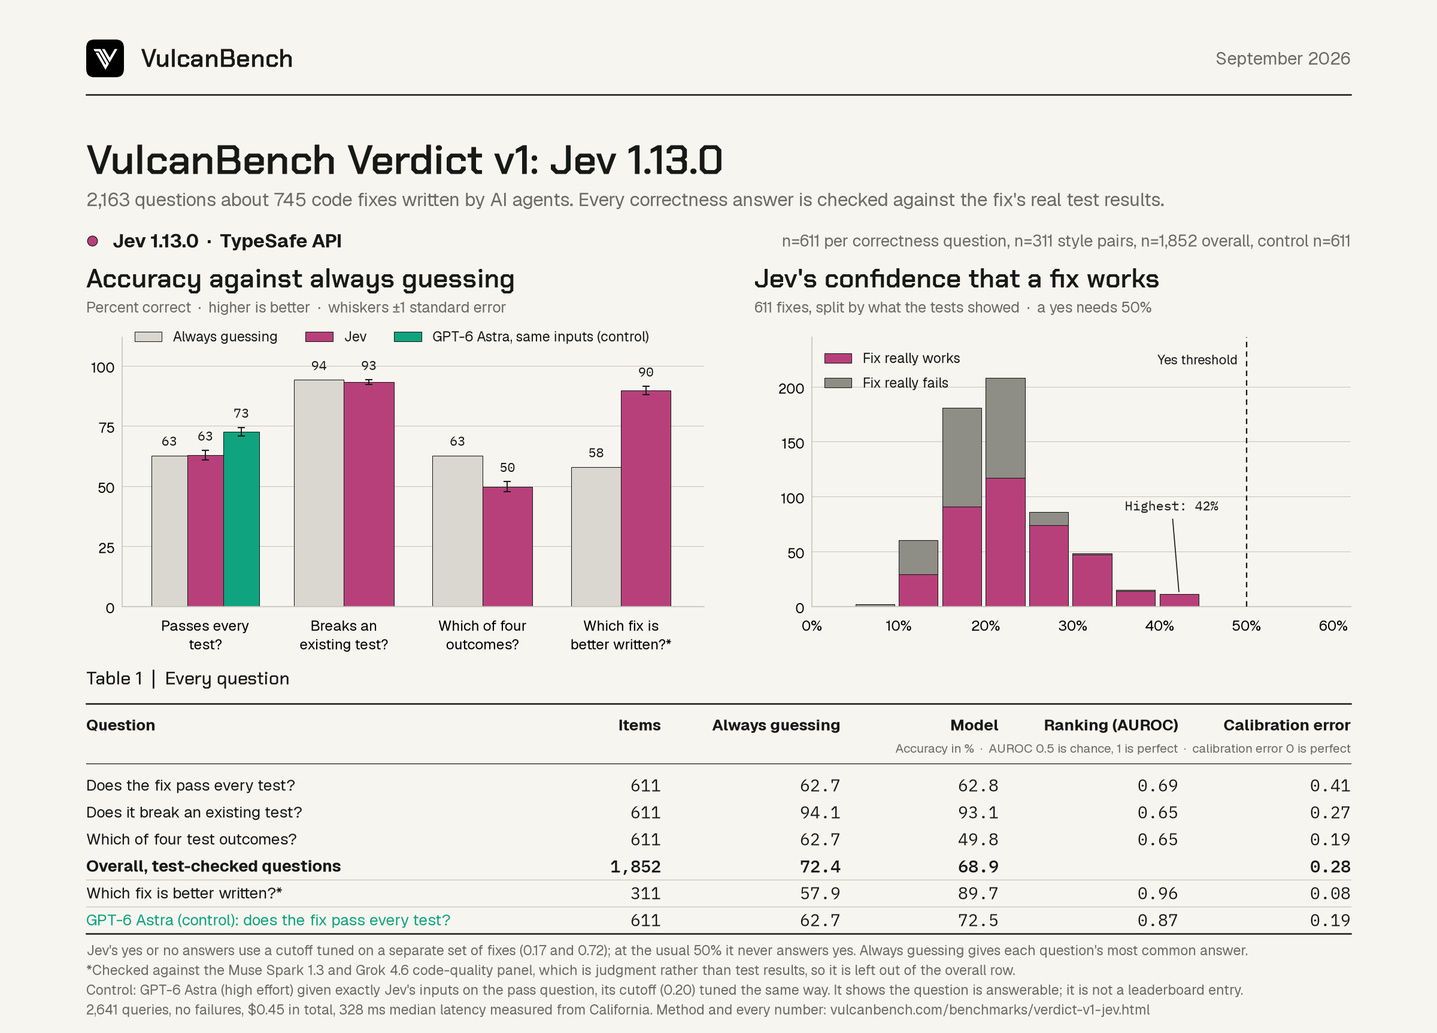
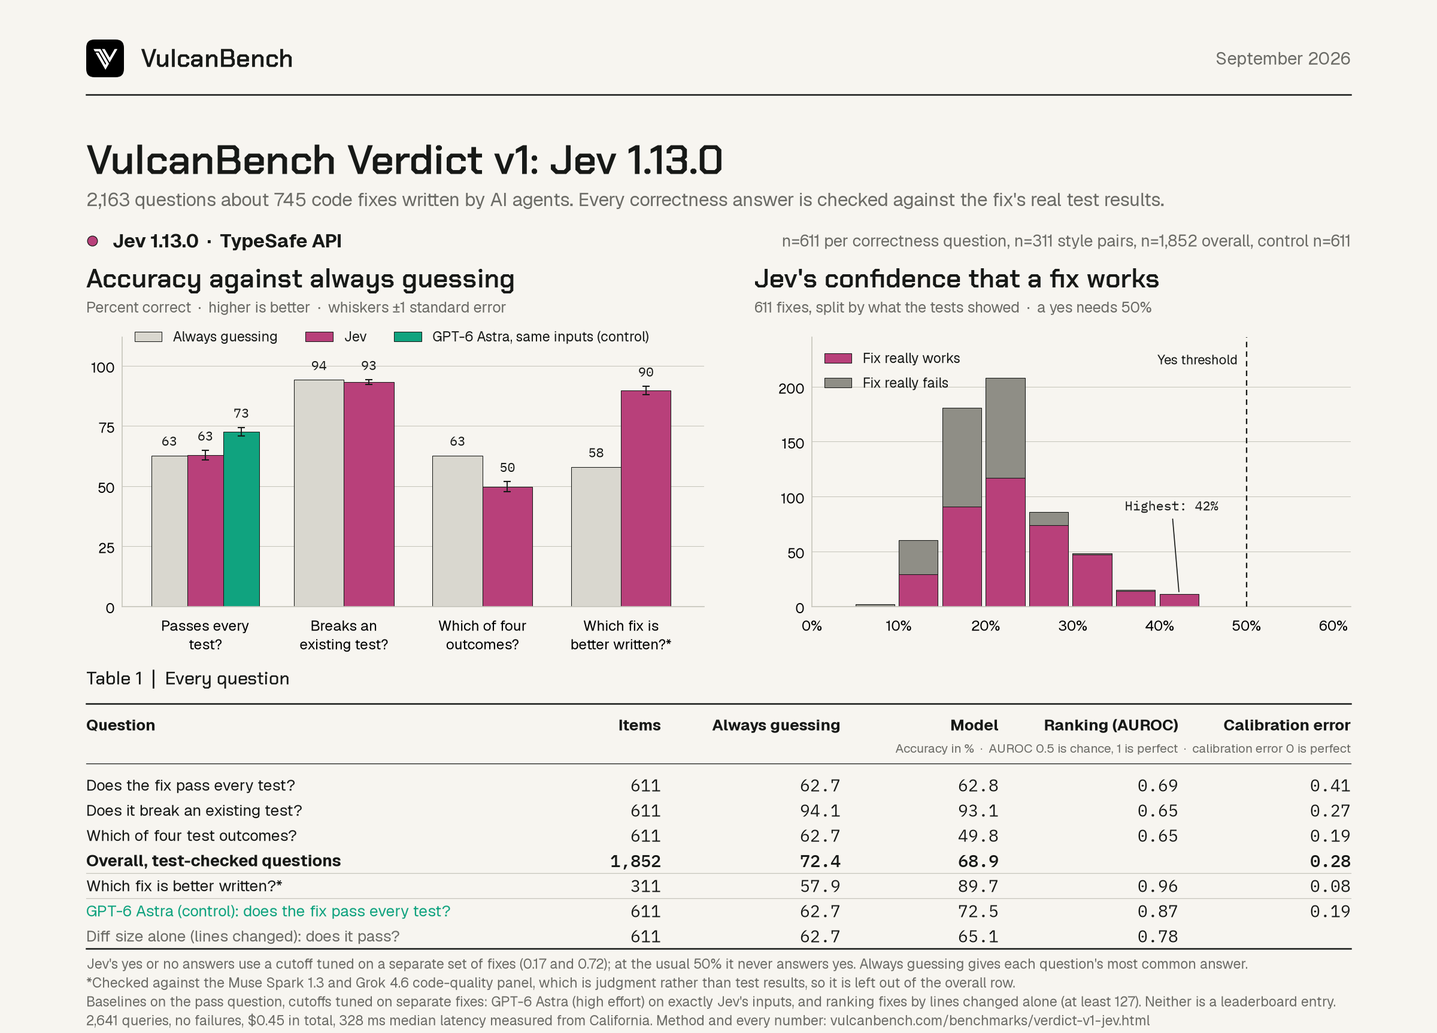
Publish the diff-size baseline beside Jev and the control (#76)
Ranking fixes by lines changed alone scores AUROC 0.78 on the published
pass questions, above Jev's 0.69 and below the GPT-6 Astra control's 0.87.
The page adds it to the control table, a within-size table and a
takeaway; the card gains a Table 1 row and moves to ?v=7; the data files
and the reproduction guide carry it.

Changed region(s): [[0.0625, 0.7681, 0.9375, 1.0], [0.7812, 0.7681, 0.8125, 0.8296]]

diff --git a/benchmarks/verdict-v1-jev.html b/benchmarks/verdict-v1-jev.html
@@ -21,14 +21,14 @@
 <meta property="og:title" content="Jev 1.13.0 on VulcanBench Verdict v1 | VulcanBench">
 <meta property="og:description" content="Verdict v1: TypeSafe AI's Jev judged 745 real agent-written fixes, with answers from hidden tests. It ranks whether a fix works at AUROC 0.69 against 0.87 for GPT-6 Astra on the same inputs, never states better than even odds that a fix works, and agrees with a code-quality panel on 89.7% of style pairs.">
 <meta property="og:url" content="https://vulcanbench.com/benchmarks/verdict-v1-jev.html">
-<meta property="og:image" content="https://vulcanbench.com/assets/cards/verdict-v1-jev.png?v=6">
+<meta property="og:image" content="https://vulcanbench.com/assets/cards/verdict-v1-jev.png?v=7">
 <meta property="og:image:width" content="2400">
 <meta property="og:image:height" content="1725">
 <meta property="og:image:alt" content="VulcanBench Verdict v1 model card for Jev 1.13.0: accuracy against always guessing for every question, with a GPT-6 Astra control on the pass question, Jev's confidence that a fix works, and a table of ranking quality and calibration">
 <meta name="twitter:card" content="summary_large_image">
 <meta name="twitter:title" content="Jev 1.13.0 on VulcanBench Verdict v1 | VulcanBench">
 <meta name="twitter:description" content="Verdict v1: TypeSafe AI's Jev judged 745 real agent-written fixes, with answers from hidden tests. It ranks whether a fix works at AUROC 0.69 against 0.87 for GPT-6 Astra on the same inputs, never states better than even odds that a fix works, and agrees with a code-quality panel on 89.7% of style pairs.">
-<meta name="twitter:image" content="https://vulcanbench.com/assets/cards/verdict-v1-jev.png?v=6">
+<meta name="twitter:image" content="https://vulcanbench.com/assets/cards/verdict-v1-jev.png?v=7">
 <meta name="twitter:image:alt" content="VulcanBench Verdict v1 model card for Jev 1.13.0: accuracy against always guessing for every question, with a GPT-6 Astra control on the pass question, Jev's confidence that a fix works, and a table of ranking quality and calibration">
 <link rel="preconnect" href="https://fonts.googleapis.com">
 <link rel="preconnect" href="https://fonts.gstatic.com" crossorigin>
@@ -79,7 +79,7 @@
         <p>Every fix yields three questions about its test results, plus a separate question comparing two fixes for the same task on how well they are written, which is checked against AI reviewers rather than tests. 2,163 questions in all. For yes or no questions, the probability Jev needs to count as "yes" is chosen on a separate set of fixes that are never scored, so Jev is judged at its best cutoff without seeing the answers.</p>
       </section>
       <div class="report-resources" aria-label="Report and evidence downloads">
-        <a class="resource" href="/assets/cards/verdict-v1-jev.png?v=6" download><span class="resource-kind">Card</span><span class="resource-title">Results card</span><span class="resource-meta">PNG, accuracy with the control, confidence and every question</span></a>
+        <a class="resource" href="/assets/cards/verdict-v1-jev.png?v=7" download><span class="resource-kind">Card</span><span class="resource-title">Results card</span><span class="resource-meta">PNG, accuracy with the control, confidence and every question</span></a>
         <a class="resource" href="/assets/data/verdict-v1-jev/scores.csv" download><span class="resource-kind">Data</span><span class="resource-title">Scores by family</span><span class="resource-meta">CSV, Jev and the majority floor</span></a>
         <a class="resource" href="/assets/data/verdict-v1-jev/results.json"><span class="resource-kind">Data</span><span class="resource-title">Every published number</span><span class="resource-meta">JSON, metrics, confusion counts and the probe</span></a>
         <a class="resource" href="/assets/data/verdict-v1-jev/report.md"><span class="resource-kind">Report</span><span class="resource-title">Full technical report</span><span class="resource-meta">Markdown, findings, method and limits</span></a>
@@ -110,10 +110,10 @@
         <p>A fifth family, picking which file the fix belongs in, is kept only as a wiring probe. Jev answered 19 of 19 correctly, and then we checked the items: every issue names the answer file's stem in its own text, so the question is string matching. It supports no claim about ability. Items are split by task, so no task appears in both the development and test splits, and the test split is what is published here.</p>
       </section>
       <figure class="suite-card">
-        <a href="/assets/cards/verdict-v1-jev.png?v=6" aria-label="Open the Jev results card at full resolution">
-          <img src="/assets/cards/verdict-v1-jev.png?v=6" width="2400" height="1725" fetchpriority="high" alt="VulcanBench Verdict v1 model card for Jev 1.13.0. Left chart, accuracy against always guessing: on whether a fix passes every test, always guessing scores 63 percent, Jev 63 and a GPT-6 Astra control given the same inputs 73; on whether a fix breaks an existing test, 94 against 93 for Jev; on which of four test outcomes, 63 against 50; on which fix is better written, 58 against 90. Right chart, Jev's stated confidence that a fix works across 611 fixes: every value falls between 9 and 42 percent, below the 50 percent yes threshold. Table 1 lists items, accuracy, ranking quality and calibration error for every question and for the control. Exact values are in the tables on this page.">
+        <a href="/assets/cards/verdict-v1-jev.png?v=7" aria-label="Open the Jev results card at full resolution">
+          <img src="/assets/cards/verdict-v1-jev.png?v=7" width="2400" height="1725" fetchpriority="high" alt="VulcanBench Verdict v1 model card for Jev 1.13.0. Left chart, accuracy against always guessing: on whether a fix passes every test, always guessing scores 63 percent, Jev 63 and a GPT-6 Astra control given the same inputs 73; on whether a fix breaks an existing test, 94 against 93 for Jev; on which of four test outcomes, 63 against 50; on which fix is better written, 58 against 90. Right chart, Jev's stated confidence that a fix works across 611 fixes: every value falls between 9 and 42 percent, below the 50 percent yes threshold. Table 1 lists items, accuracy, ranking quality and calibration error for every question, for the control and for ranking by diff size alone. Exact values are in the tables on this page.">
         </a>
-        <figcaption>Whiskers show &plusmn;1 standard error. The green bar on the pass question is the <a href="#control-run">control</a>: GPT-6 Astra given exactly Jev's inputs, which shows the question is answerable. Yes or no results use a cutoff chosen on a separate set of fixes; at the usual 50% Jev never answers yes. The better-written question, marked with an asterisk, is checked against AI reviewers rather than tests. <a href="/assets/cards/verdict-v1-jev.png?v=6">Open full-size card</a>.</figcaption>
+        <figcaption>Whiskers show &plusmn;1 standard error. The green bar on the pass question is the <a href="#control-run">control</a>: GPT-6 Astra given exactly Jev's inputs, which shows the question is answerable. Yes or no results use a cutoff chosen on a separate set of fixes; at the usual 50% Jev never answers yes. The better-written question, marked with an asterisk, is checked against AI reviewers rather than tests. <a href="/assets/cards/verdict-v1-jev.png?v=7">Open full-size card</a>.</figcaption>
       </figure>
 
       <section class="report-section" id="results" aria-labelledby="results-heading">
@@ -160,7 +160,7 @@
             <tr><th scope="row">Which of two patches is more maintainable?</th><td>0.962</td></tr>
           </tbody>
         </table></div>
-        <p>Ordering is not the same as usefulness. With a cutoff fitted on held-out items, accuracy on the two yes or no families lands at 62.8% and 93.1%, against floors of 62.7% and 94.1%. The signal is real, but the classes are imbalanced enough that acting on it gains nothing over answering the most common label.</p>
+        <p>Ordering is not the same as usefulness. With a cutoff fitted on held-out items, accuracy on the two yes or no families lands at 62.8% and 93.1%, against floors of 62.7% and 94.1%. The signal is real, but the classes are imbalanced enough that acting on it gains nothing over answering the most common label. It is also weaker than the simplest heuristic: bigger fixes pass more often here, so ranking fixes by lines changed alone scores 0.78, above Jev's 0.69 (see <a href="#control-run">the control</a>).</p>
         <p>The wording is not the cause. The same 134 development-split patches were asked the verdict question four ways, including an inverted form where agreeing means the opposite.</p>
         <div class="suite-table-scroll" role="region" aria-label="The same patches asked four ways" tabindex="0"><table class="suite-results">
           <caption>The verdict question worded four ways, 134 development-split patches, 56.7% of which pass</caption>
@@ -181,19 +181,30 @@
         <p>To find out, GPT-6 Astra at high effort was given exactly Jev's inputs through Codex, in an empty read-only directory with no tools, and asked for a probability on every pass question. Its cutoff was chosen on the 134 development-split questions and applied to the 611 published ones, the same procedure as Jev's. It made no tool calls and took a median of 22 seconds per answer, against 0.3 seconds for Jev.</p>
         <div class="suite-table-scroll" role="region" aria-label="Control results on the pass question" tabindex="0"><table class="suite-results">
           <caption>Does the fix pass every hidden test? 611 published fixes, same inputs for both models</caption>
-          <thead><tr><th scope="col">Measure</th><th scope="col">GPT-6 Astra (control)</th><th scope="col">Jev 1.13.0</th></tr></thead>
+          <thead><tr><th scope="col">Measure</th><th scope="col">GPT-6 Astra (control)</th><th scope="col">Jev 1.13.0</th><th scope="col">Lines changed alone</th></tr></thead>
           <tbody>
-            <tr><th scope="row">Always guessing</th><td>62.7%</td><td>62.7%</td></tr>
-            <tr><th scope="row">Ranking (AUROC, 95% interval)</th><td>0.87 (0.84 to 0.89)</td><td>0.69 (0.65 to 0.73)</td></tr>
-            <tr><th scope="row">Accuracy at a development-fitted cutoff</th><td>72.5% (cutoff 0.20)</td><td>62.8% (cutoff 0.17)</td></tr>
-            <tr><th scope="row">Accuracy at the plain 50% line</th><td>67.1%</td><td>37.3%</td></tr>
-            <tr><th scope="row">Stated probability, lowest to highest</th><td>0.00 to 0.95</td><td>0.09 to 0.42</td></tr>
-            <tr><th scope="row">Mean stated probability (true rate 62.7%)</th><td>0.34</td><td>0.22</td></tr>
+            <tr><th scope="row">Always guessing</th><td>62.7%</td><td>62.7%</td><td>62.7%</td></tr>
+            <tr><th scope="row">Ranking (AUROC, 95% interval)</th><td>0.87 (0.84 to 0.89)</td><td>0.69 (0.65 to 0.73)</td><td>0.78 (0.75 to 0.82)</td></tr>
+            <tr><th scope="row">Accuracy at a development-fitted cutoff</th><td>72.5% (cutoff 0.20)</td><td>62.8% (cutoff 0.17)</td><td>65.1% (127 lines)</td></tr>
+            <tr><th scope="row">Accuracy at the plain 50% line</th><td>67.1%</td><td>37.3%</td><td></td></tr>
+            <tr><th scope="row">Stated probability, lowest to highest</th><td>0.00 to 0.95</td><td>0.09 to 0.42</td><td></td></tr>
+            <tr><th scope="row">Mean stated probability (true rate 62.7%)</th><td>0.34</td><td>0.22</td><td></td></tr>
+          </tbody>
+        </table></div>
+        <p>Fix size matters here more than it should. Bigger fixes pass far more often in this suite, 7% of the published fixes under 50 lines against 90% of those over 200, so "rank fixes by how many lines they change" is a real baseline, and a model's ranking only shows it is reading the code if it beats that.</p>
+        <div class="suite-table-scroll" role="region" aria-label="Ranking within each fix size" tabindex="0"><table class="suite-results">
+          <caption>Ranking (AUROC) within each fix size, 611 published pass questions</caption>
+          <thead><tr><th scope="col">Fix size</th><th scope="col">Fixes</th><th scope="col">Share that pass</th><th scope="col">GPT-6 Astra</th><th scope="col">Jev</th><th scope="col">Lines changed alone</th></tr></thead>
+          <tbody>
+            <tr><th scope="row">Under 50 lines</th><td>68</td><td>7%</td><td>0.80</td><td>0.45</td><td>0.89</td></tr>
+            <tr><th scope="row">50 to 199 lines</th><td>417</td><td>64%</td><td>0.81</td><td>0.56</td><td>0.65</td></tr>
+            <tr><th scope="row">200 lines or more</th><td>126</td><td>90%</td><td>0.96</td><td>0.88</td><td>0.64</td></tr>
           </tbody>
         </table></div>
         <div class="effort-choices">
           <div><h3>The question is answerable</h3><p>About 10 points above guessing</p><p>A frontier model beats always guessing by about 10 points from the same text. The hidden quirks limit how well any reader can do, but they do not make the task impossible.</p></div>
           <div><h3>Jev's shortfall is real</h3><p>AUROC gap 0.13 to 0.22</p><p>It is ranking as well as calibration. The gap holds within each of the 19 tasks, item-weighted AUROC 0.91 for Astra against 0.73 for Jev, so it is not an artifact of some tasks being easier.</p></div>
+          <div><h3>Fix size explains most of Jev's ranking</h3><p>0.78 for size alone, 0.69 for Jev</p><p>Ranking by lines changed beats Jev overall. In the middle size band, two thirds of the fixes, Jev is near chance (0.56) while Astra holds at 0.81. Jev does rank the largest fixes well, but only 13 of those 126 fail.</p></div>
           <div><h3>Astra is under-confident too</h3><p>Mean 0.34 where 63% pass</p><p>But its answers do cross 50%, and at that plain line it still beats guessing, 67.1% against 62.7%. Jev's never do.</p></div>
           <div><h3>A control, not a column</h3><p>One model, one effort, one question</p><p>The control shows the pass question is answerable and gives Jev a reference point. It is not a leaderboard entry for Astra, and the style question has no control yet.</p></div>
         </div>
@@ -208,7 +219,7 @@
 
       <section class="report-section" id="meaning" aria-labelledby="meaning-heading">
         <h2 id="meaning-heading">What this means</h2>
-        <p>Jev cannot be dropped in as a merge gate or a continuous-integration pre-filter on the strength of its own probabilities. Read literally, it says every patch is more likely to fail than pass, which would block everything. Read as a ranking, with a cutoff fitted on your own labelled data, it comes out about level with answering "it passes" every time. A frontier model given the same inputs beats guessing by about 10 points and ranks fixes far better (see <a href="#control-run">the control</a>), so the shortfall is Jev's, not the test's.</p>
+        <p>Jev cannot be dropped in as a merge gate or a continuous-integration pre-filter on the strength of its own probabilities. Read literally, it says every patch is more likely to fail than pass, which would block everything. Read as a ranking, with a cutoff fitted on your own labelled data, it comes out about level with answering "it passes" every time. A frontier model given the same inputs beats guessing by about 10 points and ranks fixes far better (see <a href="#control-run">the control</a>), so the shortfall is Jev's, not the test's. Even the modest ranking Jev has is mostly available for free: sorting fixes by how many lines they change does better.</p>
         <p>Where the judgment is about the shape of the code rather than its behaviour, the picture changes: 89.7% agreement with a calibrated judge panel, an AUROC of 0.962, at 328 ms and $0.15 per 1,000 decisions. That is roughly the cost and latency of a database query, for a judgment that currently costs a full model call.</p>
         <p>The methodological point is one this report had to learn the hard way. A model that returns probabilities can be self-consistent, well ordered and badly scaled all at once, and which of those you see depends entirely on the metric. Accuracy at a fixed cutoff measures the scaling and hides the ordering. AUROC measures the ordering and hides the scaling. Reporting one without the other produces a confident, wrong headline, which is what the first version of this page did.</p>
       </section>

diff --git a/benchmarks.html b/benchmarks.html
@@ -156,10 +156,10 @@
         <p class="suite-label">September 22, 2026, corrected and extended with a control September 23 &middot; 2,641 queries &middot; jev-1.13.0</p>
         <h3 id="verdict-jev-preview-heading"><a href="benchmarks/verdict-v1-jev.html">Jev 1.13.0 on VulcanBench Verdict v1</a></h3>
         <p>The first measurement of TypeSafe AI's Jev on software engineering. Jev is a System One model: it returns a typed decision in a single parallel pass and generates no text, so it was asked to judge 745 patches that frontier coding agents had already written, each one graded by hidden tests.</p>
-        <p>Its stated probability that a patch passes never rises above 0.42, on a population where 63% of them pass, which is a large calibration failure. The ranking underneath is sounder: AUROC 0.69 on that question, and at a cutoff fitted on held-out items its accuracy draws level with the majority answer rather than beating it. On which of two patches a code-quality panel preferred, it agrees 89.7% of the time at AUROC 0.962, for 328 ms and $0.15 per 1,000 decisions. Corrected on September 23 after the first version scored these questions at a cutoff the model never crosses. A control, GPT-6 Astra given the same inputs, ranks the fixes far better (AUROC 0.87 against 0.69) and beats guessing by about 10 points, so the questions are answerable and Jev's shortfall is real.</p>
+        <p>Its stated probability that a patch passes never rises above 0.42, on a population where 63% of them pass, which is a large calibration failure. The ranking underneath is sounder: AUROC 0.69 on that question, and at a cutoff fitted on held-out items its accuracy draws level with the majority answer rather than beating it. On which of two patches a code-quality panel preferred, it agrees 89.7% of the time at AUROC 0.962, for 328 ms and $0.15 per 1,000 decisions. Corrected on September 23 after the first version scored these questions at a cutoff the model never crosses. A control, GPT-6 Astra given the same inputs, ranks the fixes far better (AUROC 0.87 against 0.69) and beats guessing by about 10 points, so the questions are answerable and Jev's shortfall is real; even ranking fixes by lines changed alone beats Jev (0.78).</p>
         <div class="suite-downloads"><a href="benchmarks/verdict-v1-jev.html">Read the study</a><a href="assets/data/verdict-v1-jev/report.md">Full report</a><a href="assets/data/verdict-v1-jev/scores.csv">Scores CSV</a><a href="https://github.com/morganlinton/VulcanBench/tree/main/harness/verdict">Suite code</a></div>
       </div>
-      <a href="benchmarks/verdict-v1-jev.html" aria-label="Read the Jev report on Verdict v1"><img src="assets/cards/verdict-v1-jev.png?v=6" width="2400" height="1725" loading="lazy" alt="Preview of the Jev results card. Open the study for readable charts and tables."></a>
+      <a href="benchmarks/verdict-v1-jev.html" aria-label="Read the Jev report on Verdict v1"><img src="assets/cards/verdict-v1-jev.png?v=7" width="2400" height="1725" loading="lazy" alt="Preview of the Jev results card. Open the study for readable charts and tables."></a>
     </article>
   </section>
 

diff --git a/assets/data/verdict-v1-jev/report.md b/assets/data/verdict-v1-jev/report.md
@@ -111,7 +111,13 @@ common label.
 
 Measured against a frontier model given the same inputs, though, Jev's
 ranking on the pass question is weak: GPT-6 Astra reaches an AUROC of 0.87
-on the same 611 fixes (see [The control](#the-control)).
+on the same 611 fixes (see [The control](#the-control)). It is also weaker
+than the simplest possible heuristic. In this suite bigger fixes pass more
+often (7% of the published fixes under 50 lines pass, 90% of those over 200), so ranking
+fixes by lines changed alone scores an AUROC of 0.78, above Jev's 0.69.
+Jev's stated confidence follows fix size closely, and among the 417 fixes of
+50 to 199 lines, where size says little, its ranking falls to 0.56, near
+chance, while Astra's holds at 0.81.
 
 ### 3. The four wordings agree with each other, and all of them are compressed
 
@@ -172,16 +178,24 @@ chosen on the 134 development-split questions and applied to the 611
 published ones, the same procedure as Jev's. It made no tool calls and took a
 median of 22 seconds per answer, against 0.3 seconds for Jev.
 
-| Pass question, 611 published fixes | GPT-6 Astra | Jev 1.13.0 |
-|---|---|---|
-| Always guessing | 62.7% | 62.7% |
-| Ranking (AUROC, 95% interval) | **0.87** (0.84 to 0.89) | 0.69 (0.65 to 0.73) |
-| Accuracy at a development-fitted cutoff | **72.5%** (cutoff 0.20) | 62.8% (cutoff 0.17) |
-| Accuracy at the plain 50% line | 67.1% | 37.3% |
-| Stated probability, lowest to highest | 0.00 to 0.95 | 0.09 to 0.42 |
-| Mean stated probability (true rate 62.7%) | 0.34 | 0.22 |
+| Pass question, 611 published fixes | GPT-6 Astra | Jev 1.13.0 | Lines changed alone |
+|---|---|---|---|
+| Always guessing | 62.7% | 62.7% | 62.7% |
+| Ranking (AUROC, 95% interval) | **0.87** (0.84 to 0.89) | 0.69 (0.65 to 0.73) | 0.78 (0.75 to 0.82) |
+| Accuracy at a development-fitted cutoff | **72.5%** (cutoff 0.20) | 62.8% (cutoff 0.17) | 65.1% (127 lines) |
+| Accuracy at the plain 50% line | 67.1% | 37.3% | |
+| Stated probability, lowest to highest | 0.00 to 0.95 | 0.09 to 0.42 | |
+| Mean stated probability (true rate 62.7%) | 0.34 | 0.22 | |
 
-Three things follow.
+Ranking AUROC within each fix size:
+
+| Fix size | Fixes | Share that pass | GPT-6 Astra | Jev | Lines changed alone |
+|---|---|---|---|---|---|
+| Under 50 lines | 68 | 7% | 0.80 | 0.45 | 0.89 |
+| 50 to 199 lines | 417 | 64% | 0.81 | 0.56 | 0.65 |
+| 200 lines or more | 126 | 90% | 0.96 | 0.88 | 0.64 |
+
+Four things follow.
 
 - **The question is answerable.** A frontier model beats always guessing by
   about 10 points from the same text. The hidden quirks limit how well any
@@ -190,6 +204,11 @@ Three things follow.
   ranking gap, 0.18 AUROC, has a bootstrap interval of 0.13 to 0.22. Within
   each of the 19 tasks the gap holds (item-weighted AUROC 0.91 for Astra
   against 0.73 for Jev), so it is not an artifact of some tasks being easier.
+- **Fix size explains most of Jev's ranking, and none of Astra's.** Ranking
+  by lines changed alone beats Jev overall (0.78 against 0.69). In the middle
+  size band, which holds two thirds of the fixes, Jev is near chance (0.56)
+  and Astra is not (0.81). Jev does rank the largest fixes well (0.88), but
+  only 13 of those 126 fail, so that figure rests on few cases.
 - **Astra is under-confident too, but usable.** Its average stated chance
   that a fix passes is 34% where 63% do, yet its answers do cross 50%, and at
   that plain line it still beats guessing, 67.1% against 62.7%. Jev's never
@@ -208,6 +227,8 @@ Read as a ranking, with a cutoff fitted on your own labelled data, it comes
 out about level with answering "it passes" every time. A frontier model given
 the same inputs beats guessing by about 10 points and ranks fixes far better
 (see [The control](#the-control)), so the shortfall is Jev's, not the test's.
+Even the modest ranking Jev has is mostly available for free: sorting fixes
+by how many lines they change does better.
 
 Where the judgment is about the shape of the code rather than its behaviour,
 the picture changes: 89.7% agreement with a calibrated judge panel, AUROC

diff --git a/assets/data/verdict-v1-jev/REPRODUCING.md b/assets/data/verdict-v1-jev/REPRODUCING.md
@@ -64,6 +64,14 @@ All figures below come from `results.json`.
    run reports no cutoff accuracy, because its cutoff was fitted on those
    same items.
 
+10. **The diff-size baseline.** `baselines.diff_size` ranks the 611
+    published pass questions by lines changed: `auroc` 0.7846, with
+    `auroc_ci95` [0.745, 0.823]; `dev_cutoff_lines` 127 gives
+    `accuracy_at_dev_cutoff` 0.6514. `size_tracking_auroc.jev` is 0.8159, the
+    extent to which Jev's stated probability follows fix size. In `by_size`,
+    the 50 to 199 line band (417 fixes) has `auroc_jev` 0.5583 against
+    `auroc_control` 0.8132.
+
 ## Re-running it
 
 The harness code is in the [VulcanBench
